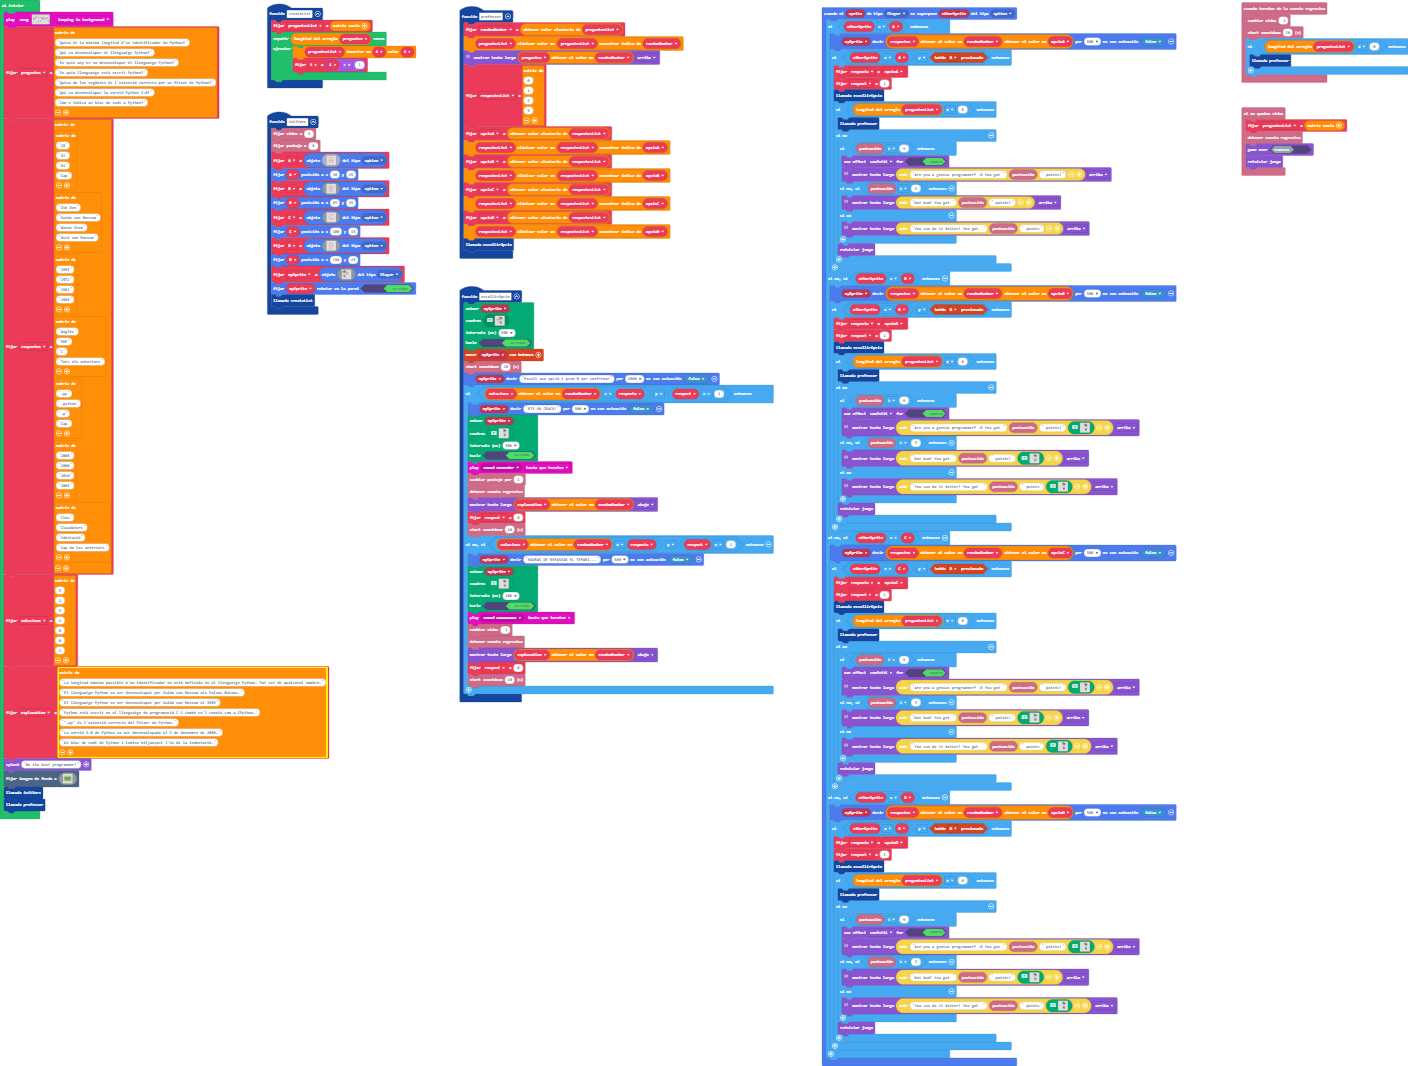
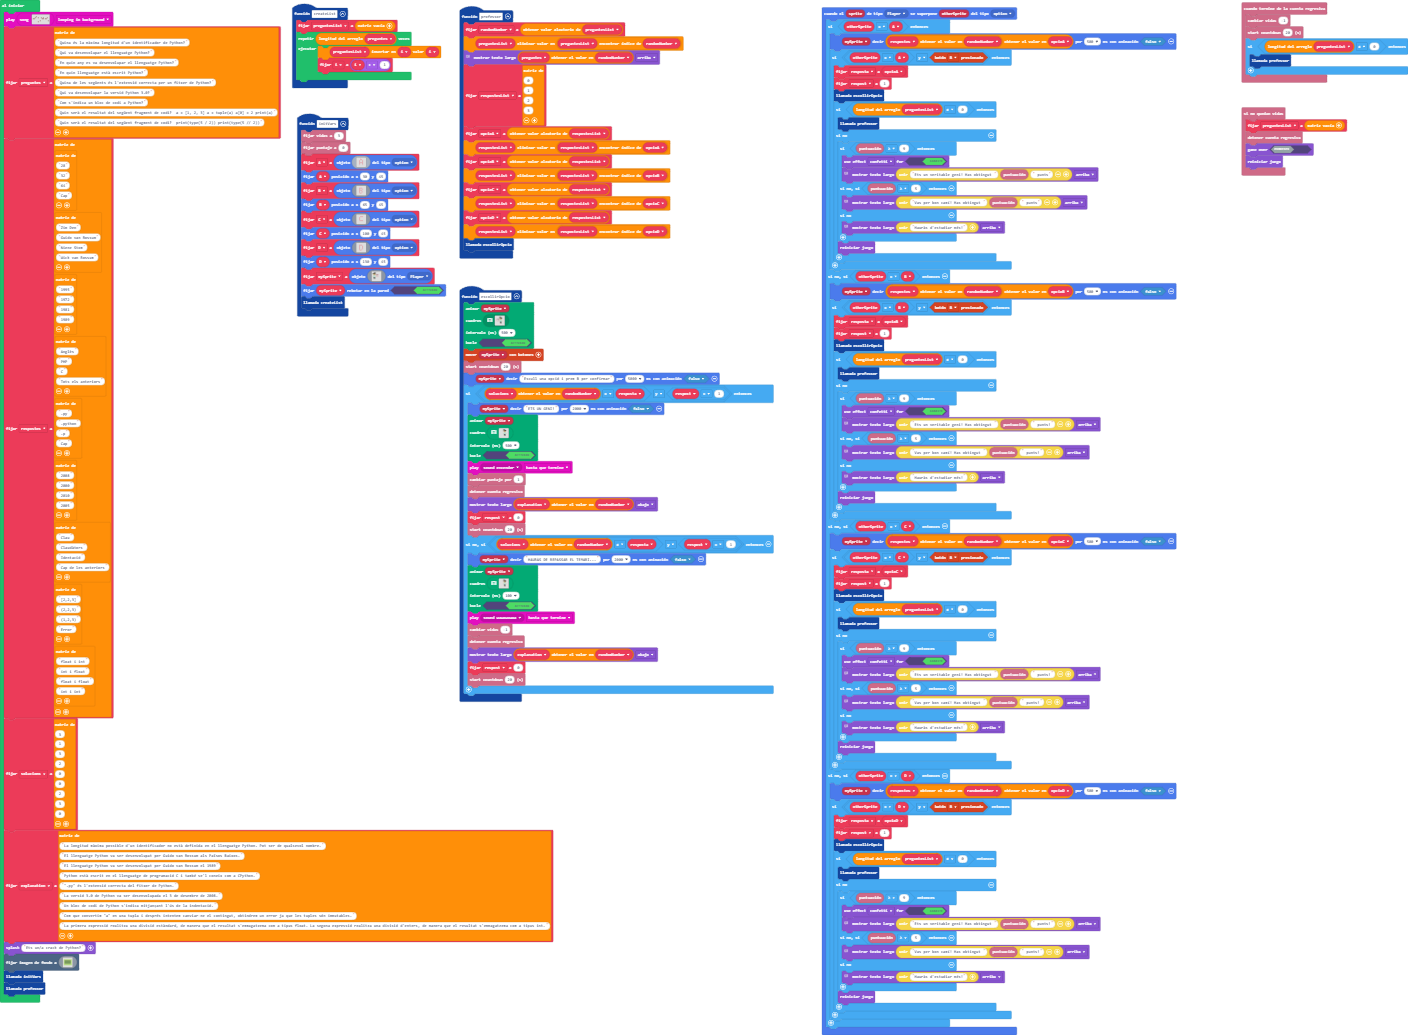
Actualizar main.blocks, main.ts

Changed region(s): [[0.0, 0.0, 0.5625, 0.9894], [0.5938, 0.0, 0.8438, 0.9894], [0.875, 0.0, 1.0, 0.1855]]

diff --git a/main.ts b/main.ts
@@ -10,9 +10,9 @@ function escollirOpcio () {
     )
     controller.moveSprite(mySprite)
     info.startCountdown(20)
-    mySprite.sayText("Escull una opció i prem B per confirmar", 1000, false)
+    mySprite.sayText("Escull una opció i prem B per confirmar", 5000, false)
     if (solucions[randomNumber] == resposta && respost == 1) {
-        mySprite.sayText("ETS UN CRACK!", 500, false)
+        mySprite.sayText("ETS UN GENI!", 2000, false)
         animation.runImageAnimation(
         mySprite,
         assets.animation`myAnim2`,
@@ -26,7 +26,7 @@ function escollirOpcio () {
         respost = 0
         info.startCountdown(20)
     } else if (solucions[randomNumber] != resposta && respost == 1) {
-        mySprite.sayText("HAURÀS DE REPASSAR EL TEMARI...", 500, false)
+        mySprite.sayText("HAURÀS DE REPASSAR EL TEMARI...", 2000, false)
         animation.runImageAnimation(
         mySprite,
         assets.animation`myAnim1`,
@@ -104,13 +104,13 @@ sprites.onOverlap(SpriteKind.Player, SpriteKind.option, function (sprite, otherS
                 if (info.score() >= 9) {
                     game.setGameOverEffect(true, effects.confetti)
                     // Display the text
-                    game.showLongText("Are you a genius programmer? :D You got " + info.score() + " points!", DialogLayout.Top)
+                    game.showLongText("Ets un veritable geni! Has obtingut " + info.score() + " punts", DialogLayout.Top)
                 } else if (info.score() >= 5) {
                     // Display the text
-                    game.showLongText("Not bad! You got " + info.score() + " points!", DialogLayout.Top)
+                    game.showLongText("Vas per bon camí! Has obtingut " + info.score() + " punts", DialogLayout.Top)
                 } else {
                     // Display the text
-                    game.showLongText("You can do it better! You got  " + info.score() + " points", DialogLayout.Top)
+                    game.showLongText("Hauràs d'estudiar més!", DialogLayout.Top)
                 }
                 game.reset()
             }
@@ -127,13 +127,13 @@ sprites.onOverlap(SpriteKind.Player, SpriteKind.option, function (sprite, otherS
                 if (info.score() >= 9) {
                     game.setGameOverEffect(true, effects.confetti)
                     // Display the text
-                    game.showLongText("Are you a genius programmer? :D You got " + info.score() + " points!" + assets.animation`myAnim2`, DialogLayout.Top)
+                    game.showLongText("Ets un veritable geni! Has obtingut " + info.score() + " punts!", DialogLayout.Top)
                 } else if (info.score() >= 5) {
                     // Display the text
-                    game.showLongText("Not bad! You got " + info.score() + " points!" + assets.animation`myAnim3`, DialogLayout.Top)
+                    game.showLongText("Vas per bon camí! Has obtingut " + info.score() + " punts!", DialogLayout.Top)
                 } else {
                     // Display the text
-                    game.showLongText("You can do it better! You got  " + info.score() + " points" + assets.animation`myAnim1`, DialogLayout.Top)
+                    game.showLongText("Hauràs d'estudiar més!", DialogLayout.Top)
                 }
                 game.reset()
             }
@@ -150,13 +150,13 @@ sprites.onOverlap(SpriteKind.Player, SpriteKind.option, function (sprite, otherS
                 if (info.score() >= 9) {
                     game.setGameOverEffect(true, effects.confetti)
                     // Display the text
-                    game.showLongText("Are you a genius programmer? :D You got " + info.score() + " points!" + assets.animation`myAnim2`, DialogLayout.Top)
+                    game.showLongText("Ets un veritable geni! Has obtingut " + info.score() + " punts!", DialogLayout.Top)
                 } else if (info.score() >= 5) {
                     // Display the text
-                    game.showLongText("Not bad! You got " + info.score() + " points!" + assets.animation`myAnim3`, DialogLayout.Top)
+                    game.showLongText("Vas per bon camí! Has obtingut " + info.score() + " punts!", DialogLayout.Top)
                 } else {
                     // Display the text
-                    game.showLongText("You can do it better! You got  " + info.score() + " points" + assets.animation`myAnim1`, DialogLayout.Top)
+                    game.showLongText("Hauràs d'estudiar més!", DialogLayout.Top)
                 }
                 game.reset()
             }
@@ -173,13 +173,13 @@ sprites.onOverlap(SpriteKind.Player, SpriteKind.option, function (sprite, otherS
                 if (info.score() >= 9) {
                     game.setGameOverEffect(true, effects.confetti)
                     // Display the text
-                    game.showLongText("Are you a genius programmer? :D You got " + info.score() + " points!" + assets.animation`myAnim2`, DialogLayout.Top)
+                    game.showLongText("Ets un veritable geni! Has obtingut " + info.score() + " punts!", DialogLayout.Top)
                 } else if (info.score() >= 5) {
                     // Display the text
-                    game.showLongText("Not bad! You got " + info.score() + " points!" + assets.animation`myAnim3`, DialogLayout.Top)
+                    game.showLongText("Vas per bon camí! Has obtingut " + info.score() + " punts!", DialogLayout.Top)
                 } else {
                     // Display the text
-                    game.showLongText("You can do it better! You got  " + info.score() + " points" + assets.animation`myAnim1`, DialogLayout.Top)
+                    game.showLongText("Hauràs d'estudiar més!", DialogLayout.Top)
                 }
                 game.reset()
             }
@@ -219,7 +219,9 @@ preguntes = [
 "En quin llenguatge està escrit Python?",
 "Quina de les següents és l'extensió correcta per un fitxer de Python?",
 "Qui va desenvolupar la versió Python 3.0?",
-"Com s'indica un bloc de codi a Python?"
+"Com s'indica un bloc de codi a Python?",
+"Quin serà el resultat del següent fragment de codi?  a = [1, 2, 3] a = tuple(a) a[0] = 2 print(a)",
+"Quin serà el resultat del següent fragment de codi?  print(type(5 / 2)) print(type(5 // 2))"
 ]
 respostes = [
 [
@@ -263,6 +265,18 @@ respostes = [
 "Claudàtors",
 "Identació",
 "Cap de les anteriors"
+],
+[
+"[2,2,3]",
+"(2,2,3)",
+"(1,2,3)",
+"Error"
+],
+[
+"float i int",
+"int i float",
+"float i float",
+"int i int"
 ]
 ]
 solucions = [
@@ -272,7 +286,9 @@ solucions = [
 2,
 0,
 0,
-2
+2,
+3,
+0
 ]
 explanation = [
 "La longitud màxima possible d'un identificador no està definida en el llenguatge Python. Pot ser de qualsevol nombre.",
@@ -281,9 +297,11 @@ explanation = [
 "Python està escrit en el llenguatge de programació C i també se'l coneix com a CPython.",
 "\".py\" és l'extensió correcta del fitxer de Python.",
 "La versió 3.0 de Python va ser desenvolupada el 3 de desembre de 2008.",
-"Un bloc de codi de Python s'indica mitjançant l'ús de la indentació."
+"Un bloc de codi de Python s'indica mitjançant l'ús de la indentació.",
+"Com que convertim \"a\" en una tupla i després intentem canviar-ne el contingut, obtindrem un error ja que les tuples són immutables.",
+"La primera expressió realitza una divisió estàndard, de manera que el resultat s'emmagatzema com a tipus float. La segona expressió realitza una divisió d'enters, de manera que el resultat s'emmagatzema com a tipus int."
 ]
-game.splash("Be the best programmer!")
+game.splash("Ets un/a crack de Python?")
 scene.setBackgroundImage(img`
     5555555555555555555555555555555555555555555555555355555555555555555555555555555555555555553335555555555555555555555555555555555555555555555555555555555555555555
     5555555555555555555555555555555555555555555555553555555555555555555555555555555555555555535553555555555555555555555555555555555555555555555555555555555555555555
